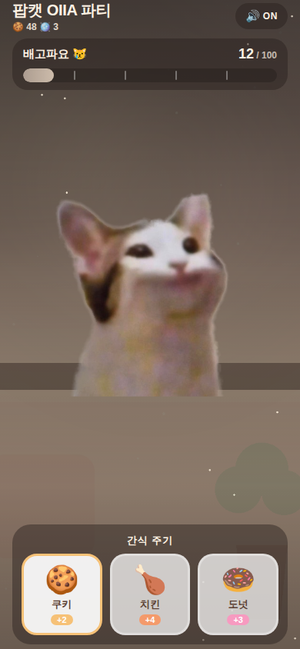
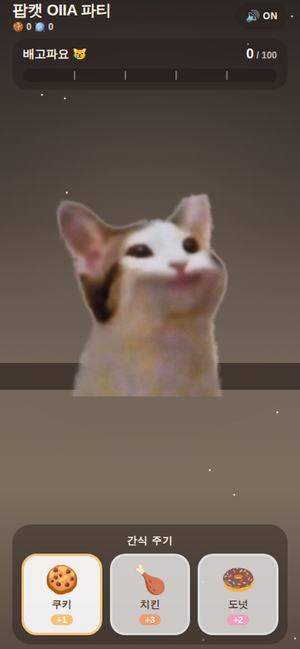
feat: 기분 0에서 시작, 간식 상승량 1/3/2 로 조정
- INITIAL_MOOD 30 -> 0. 앱을 처음 켜면 빈 게이지 + "배고파요" 에서 시작한다.
- 간식 상승량 2/4/3 -> 1/3/2 (쿠키/치킨/도넛).
  0에서 MAX 까지 치킨 기준 34번.
- 게이지 하한 0 을 테스트로 고정.
  계산(computeCurrentMood)·복원(normalize)·렌더링이 모두 clampMood 를
  지나므로 음수가 나올 경로가 없다는 것을 회귀 테스트로 명시했다.

DJ_CONFIG.resetMood 는 35 그대로 두었다. 이벤트 종료 후 값이라
"앱 시작값"과는 별개이며 요청 범위 밖이다.

실측 검증 (모바일 뷰포트 + 터치)
- 신규 실행 mood 0 / "배고파요 😿" / 상승량 +1 +3 +2
- 쿠키 -> 1, 치킨 -> 4, 도넛 -> 6
- mood 2 에서 7일 방치 -> 0 (음수 없음)
- 저장값이 -42 로 깨져 있어도 -> 0
- 0에서 치킨 42회 연타(5.8초) -> 파티 발생, 종료 후 35
- 타입 검사 통과 / 테스트 54개 통과 / Android 번들 빌드 성공

Claude-Session: https://claude.ai/code/session_01XK3RpscuKnrLr5sfuXPcaU

diff --git a/__tests__/gameFlow.test.ts b/__tests__/gameFlow.test.ts
@@ -69,8 +69,8 @@ async function feedOnce(
   });
 }
 
-/** MOOD 30 에서 100 까지 필요한 치킨 개수 */
-const CHICKEN_TO_MAX = Math.ceil((100 - 30) / 4);
+/** MOOD 0 에서 100 까지 필요한 치킨 개수 */
+const CHICKEN_TO_MAX = Math.ceil(100 / 3);
 
 beforeEach(() => {
   AsyncStorage.__reset();
@@ -86,7 +86,7 @@ afterEach(() => {
 describe('테스트 A — 기본 먹이기', () => {
   it('쿠키를 먹이면 기분 +5, 총 간식 +1, 사운드 순서가 맞다', async () => {
     const { sound, hook } = await setup();
-    expect(hook.result.current.mood).toBe(30);
+    expect(hook.result.current.mood).toBe(0);
 
     act(() => {
       hook.result.current.feed('cookie', FROM, TO);
@@ -107,7 +107,7 @@ describe('테스트 A — 기본 먹이기', () => {
       jest.advanceTimersByTime(FEED_TOTAL);
     });
 
-    expect(hook.result.current.mood).toBe(32);
+    expect(hook.result.current.mood).toBe(1);
     expect(hook.result.current.totalSnacks).toBe(1);
     expect(hook.result.current.reaction).toBeTruthy();
     expect(hook.result.current.burstId).toBe(1);
@@ -156,7 +156,7 @@ describe('테스트 A — 기본 먹이기', () => {
       jest.advanceTimersByTime(FEED_TOTAL + 20);
     });
     expect(hook.result.current.totalSnacks).toBe(5);
-    expect(hook.result.current.mood).toBe(30 + 5 * 2);
+    expect(hook.result.current.mood).toBe(5 * 1);
   });
 
   it('동시 간식 수는 maxConcurrentSnacks 를 넘지 않는다', async () => {
@@ -168,17 +168,14 @@ describe('테스트 A — 기본 먹이기', () => {
     });
     expect(hook.result.current.flying).toHaveLength(EAT_CONFIG.maxConcurrentSnacks);
 
-    // 40개를 한꺼번에 먹으면 +80 이라 MAX 에 도달해 파티가 열린다
+    // 상한을 넘어 누른 만큼은 버려지고, 받아들인 개수만 정산된다
     await act(async () => {
       jest.advanceTimersByTime(FEED_TOTAL + 20);
     });
-    expect(hook.result.current.mood).toBe(100);
-    expect(hook.result.current.isDjPartyActive).toBe(true);
+    expect(hook.result.current.totalSnacks).toBe(EAT_CONFIG.maxConcurrentSnacks);
+    expect(hook.result.current.mood).toBe(EAT_CONFIG.maxConcurrentSnacks * 1);
 
-    // 파티가 끝나면 다시 정상적으로 받아들인다 (in-flight 카운터가 풀린다)
-    act(() => {
-      hook.result.current.endParty();
-    });
+    // 다 먹고 나면 in-flight 카운터가 풀려 다시 받아들인다
     act(() => {
       hook.result.current.feed('cookie', FROM, TO);
     });
@@ -187,15 +184,26 @@ describe('테스트 A — 기본 먹이기', () => {
 });
 
 describe('테스트 B — 간식 종류별 상승량', () => {
-  it('쿠키 +2, 치킨 +4, 도넛 +3 이 누적된다', async () => {
+  it('쿠키 +1, 치킨 +3, 도넛 +2 가 누적된다', async () => {
     const { hook } = await setup();
     await feedOnce(hook, 'cookie');
-    expect(hook.result.current.mood).toBe(32);
+    expect(hook.result.current.mood).toBe(1);
     await feedOnce(hook, 'chicken');
-    expect(hook.result.current.mood).toBe(36);
+    expect(hook.result.current.mood).toBe(4);
     await feedOnce(hook, 'donut');
-    expect(hook.result.current.mood).toBe(39);
+    expect(hook.result.current.mood).toBe(6);
     expect(hook.result.current.totalSnacks).toBe(3);
+  });
+
+  it('0 에서 시작하고 게이지는 음수가 되지 않는다', async () => {
+    const { hook } = await setup();
+    expect(hook.result.current.mood).toBe(0);
+
+    // 아무것도 먹이지 않고 하루가 지나도 0 이다
+    await act(async () => {
+      jest.advanceTimersByTime(24 * 60 * 60 * 1000);
+    });
+    expect(hook.result.current.mood).toBe(0);
   });
 });
 
@@ -247,7 +255,7 @@ describe('테스트 E — OIIA MAX 이벤트', () => {
   it('기분은 100 을 넘지 않는다', async () => {
     const { hook } = await setup();
     for (let i = 0; i < CHICKEN_TO_MAX - 1; i += 1) await feedOnce(hook, 'chicken');
-    expect(hook.result.current.mood).toBe(30 + (CHICKEN_TO_MAX - 1) * 4);
+    expect(hook.result.current.mood).toBe((CHICKEN_TO_MAX - 1) * 3);
     await feedOnce(hook, 'chicken');
     expect(hook.result.current.mood).toBe(100);
   });
@@ -288,7 +296,7 @@ describe('테스트 F/G — 사운드 설정과 저장', () => {
     await feedOnce(hook, 'donut');
     const raw = await AsyncStorage.getItem('@popcat_oiia_party/state/v1');
     const saved = JSON.parse(raw);
-    expect(saved.mood).toBe(33);
+    expect(saved.mood).toBe(2);
     expect(saved.totalSnacks).toBe(1);
     expect(saved.selectedSnack).toBe('donut');
   });

diff --git a/__tests__/storage.test.ts b/__tests__/storage.test.ts
@@ -43,10 +43,10 @@ beforeEach(() => {
 });
 
 describe('기본값', () => {
-  it('최초 시작 mood 는 30, 카운터는 0, 사운드는 ON', () => {
+  it('최초 시작 mood 는 0, 카운터는 0, 사운드는 ON', () => {
     const s = createDefaultState(1000);
     expect(s.mood).toBe(INITIAL_MOOD);
-    expect(s.mood).toBe(30);
+    expect(s.mood).toBe(0);
     expect(s.totalSnacks).toBe(0);
     expect(s.totalParties).toBe(0);
     expect(s.soundEnabled).toBe(true);
@@ -60,7 +60,7 @@ describe('normalize — 손상된 저장 데이터 방어', () => {
   it('null / 문자열 / 숫자 등 잘못된 입력은 기본값으로', () => {
     for (const bad of [null, undefined, 'oops', 42, []]) {
       const s = normalize(bad, now);
-      expect(s.mood).toBe(30);
+      expect(s.mood).toBe(0);
       expect(s.totalSnacks).toBe(0);
     }
   });
@@ -68,7 +68,9 @@ describe('normalize — 손상된 저장 데이터 방어', () => {
   it('범위를 벗어난 mood 는 0~100 으로 보정', () => {
     expect(normalize({ mood: 999 }, now).mood).toBe(100);
     expect(normalize({ mood: -50 }, now).mood).toBe(0);
-    expect(normalize({ mood: 'abc' }, now).mood).toBe(30);
+    expect(normalize({ mood: -0.4 }, now).mood).toBe(0);
+    expect(normalize({ mood: 'abc' }, now).mood).toBe(0);
+    expect(normalize({ mood: 57 }, now).mood).toBe(57);
   });
 
   it('음수/NaN 카운터는 0 으로', () => {
@@ -110,14 +112,14 @@ describe('저장 / 복원 왕복 (테스트 G)', () => {
 
   it('저장된 값이 없으면 기본값으로 시작한다', async () => {
     const loaded = await loadState(5_000);
-    expect(loaded.mood).toBe(30);
+    expect(loaded.mood).toBe(0);
     expect(loaded.lastInteractionAt).toBe(5_000);
   });
 
   it('깨진 JSON 이어도 크래시하지 않고 기본값으로 시작한다', async () => {
     mockStorage.getItem.mockResolvedValueOnce('{{{ not json');
     const loaded = await loadState(7_000);
-    expect(loaded.mood).toBe(30);
+    expect(loaded.mood).toBe(0);
   });
 
   it('저장소가 던져도 saveState 는 false 만 반환한다', async () => {
@@ -128,7 +130,7 @@ describe('저장 / 복원 왕복 (테스트 G)', () => {
   it('getItem 이 던져도 loadState 는 기본값을 준다', async () => {
     mockStorage.getItem.mockRejectedValueOnce(new Error('boom'));
     const loaded = await loadState(9_000);
-    expect(loaded.mood).toBe(30);
+    expect(loaded.mood).toBe(0);
   });
 
   it('resetState 는 키를 지운다', async () => {

diff --git a/__tests__/mood.test.ts b/__tests__/mood.test.ts
@@ -25,10 +25,10 @@ describe('clampMood', () => {
 });
 
 describe('간식별 기분 상승량 (테스트 B)', () => {
-  it('쿠키 +2 / 치킨 +4 / 도넛 +3', () => {
-    expect(getSnack('cookie').moodGain).toBe(2);
-    expect(getSnack('chicken').moodGain).toBe(4);
-    expect(getSnack('donut').moodGain).toBe(3);
+  it('쿠키 +1 / 치킨 +3 / 도넛 +2', () => {
+    expect(getSnack('cookie').moodGain).toBe(1);
+    expect(getSnack('chicken').moodGain).toBe(3);
+    expect(getSnack('donut').moodGain).toBe(2);
     expect(SNACKS).toHaveLength(3);
   });
 
@@ -39,7 +39,31 @@ describe('간식별 기분 상승량 (테스트 B)', () => {
 
   it('100 을 초과하지 않는다', () => {
     expect(clampMood(99 + getSnack('chicken').moodGain)).toBe(100);
-    expect(clampMood(98 + getSnack('donut').moodGain)).toBe(100);
+    expect(clampMood(99 + getSnack('donut').moodGain)).toBe(100);
+  });
+});
+
+describe('게이지 하한 — 마이너스가 존재하지 않는다', () => {
+  const t0 = 1_700_000_000_000;
+
+  it('0 에서 아무리 오래 방치해도 0 이다', () => {
+    for (const mins of [1, 10, 60, 60 * 24, 60 * 24 * 365]) {
+      expect(computeCurrentMood(0, t0, t0 + mins * 60_000)).toBe(0);
+    }
+  });
+
+  it('감소량이 남은 기분보다 커도 0 에서 멈춘다', () => {
+    expect(computeCurrentMood(3, t0, t0 + 100 * MOOD_DECAY.intervalMs)).toBe(0);
+  });
+
+  it('저장된 값이 음수여도 0 으로 복원된다', () => {
+    expect(clampMood(-1)).toBe(0);
+    expect(clampMood(-9999)).toBe(0);
+  });
+
+  it('0 에서는 항상 "배고파요" 단계다', () => {
+    expect(getMoodStage(0).stage).toBe(0);
+    expect(getMoodLabel(0)).toBe('배고파요 😿');
   });
 });
 

diff --git a/__tests__/App.test.tsx b/__tests__/App.test.tsx
@@ -45,17 +45,17 @@ describe('App 렌더링', () => {
 
     await waitFor(() => expect(screen.getByText('팝캣 OIIA 파티')).toBeTruthy());
 
-    // 기분 게이지 (기본 30 -> "조금 괜찮아요")
-    expect(screen.getByText('조금 괜찮아요 😐')).toBeTruthy();
-    expect(screen.getByTestId('mood-value')).toHaveTextContent('30 / 100');
+    // 기분 게이지 (기본 0 -> "배고파요")
+    expect(screen.getByText('배고파요 😿')).toBeTruthy();
+    expect(screen.getByTestId('mood-value')).toHaveTextContent('0 / 100');
 
     // 간식 3종
     expect(screen.getByText('쿠키')).toBeTruthy();
     expect(screen.getByText('치킨')).toBeTruthy();
     expect(screen.getByText('도넛')).toBeTruthy();
-    expect(screen.getByText('+2')).toBeTruthy();
-    expect(screen.getByText('+4')).toBeTruthy();
+    expect(screen.getByText('+1')).toBeTruthy();
     expect(screen.getByText('+3')).toBeTruthy();
+    expect(screen.getByText('+2')).toBeTruthy();
 
     // 사운드 토글
     expect(screen.getByText('ON')).toBeTruthy();

diff --git a/constants/snacks.ts b/constants/snacks.ts
@@ -3,15 +3,15 @@ import type { Snack, SnackType } from '../types/game';
 
 /**
  * 간식별 기분 상승량.
- * 연타 제한을 없앤 대신 상승량을 낮춰 게이지가 더 천천히 차도록 했다.
- * (쿠키 5 / 치킨 10 / 도넛 7 -> 2 / 4 / 3)
+ * 연타 제한이 없으므로 한 번의 터치당 상승폭은 작게 잡는다.
+ * (쿠키 1 / 치킨 3 / 도넛 2 — 0에서 100까지 치킨 기준 34번)
  */
 export const SNACKS: Snack[] = [
   {
     id: 'cookie',
     label: '쿠키',
     emoji: '🍪',
-    moodGain: 2,
+    moodGain: 1,
     image: SNACK_IMAGES.cookie,
     color: '#F6C177',
   },
@@ -19,7 +19,7 @@ export const SNACKS: Snack[] = [
     id: 'chicken',
     label: '치킨',
     emoji: '🍗',
-    moodGain: 4,
+    moodGain: 3,
     image: SNACK_IMAGES.chicken,
     color: '#F49A6B',
   },
@@ -27,7 +27,7 @@ export const SNACKS: Snack[] = [
     id: 'donut',
     label: '도넛',
     emoji: '🍩',
-    moodGain: 3,
+    moodGain: 2,
     image: SNACK_IMAGES.donut,
     color: '#F79AC0',
   },

diff --git a/constants/gameConfig.ts b/constants/gameConfig.ts
@@ -9,7 +9,8 @@ export const APP_VERSION = 1;
 /* ------------------------------------------------------------------ 기분 */
 export const MOOD_MIN = 0;
 export const MOOD_MAX = 100;
-export const INITIAL_MOOD = 30;
+/** 앱을 처음 켰을 때의 기분 — 0에서 시작해 직접 채워 올린다 */
+export const INITIAL_MOOD = 0;
 
 export const MOOD_DECAY = {
   /** 이 시간마다 */
